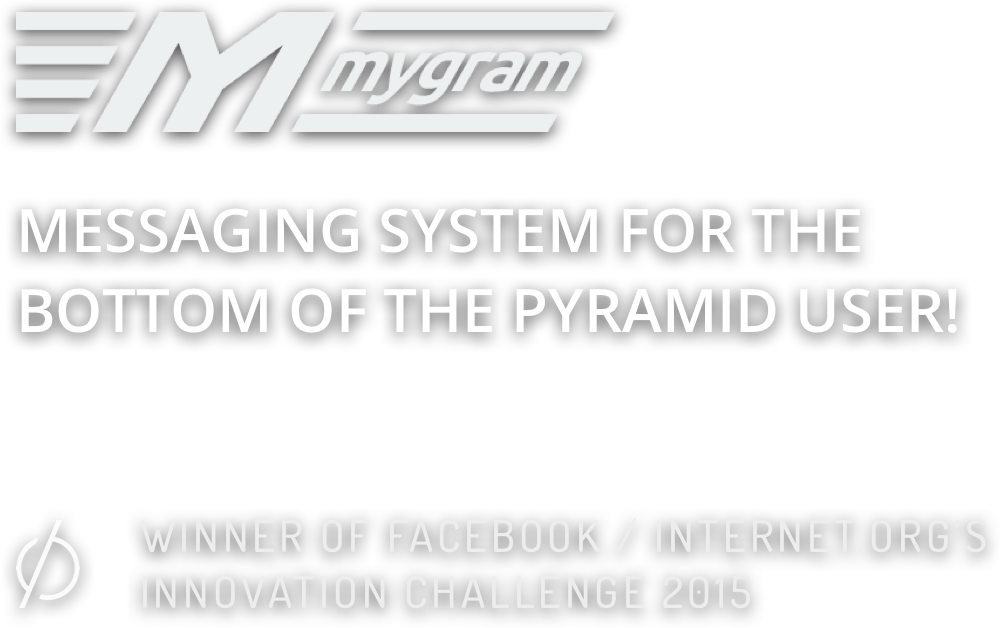
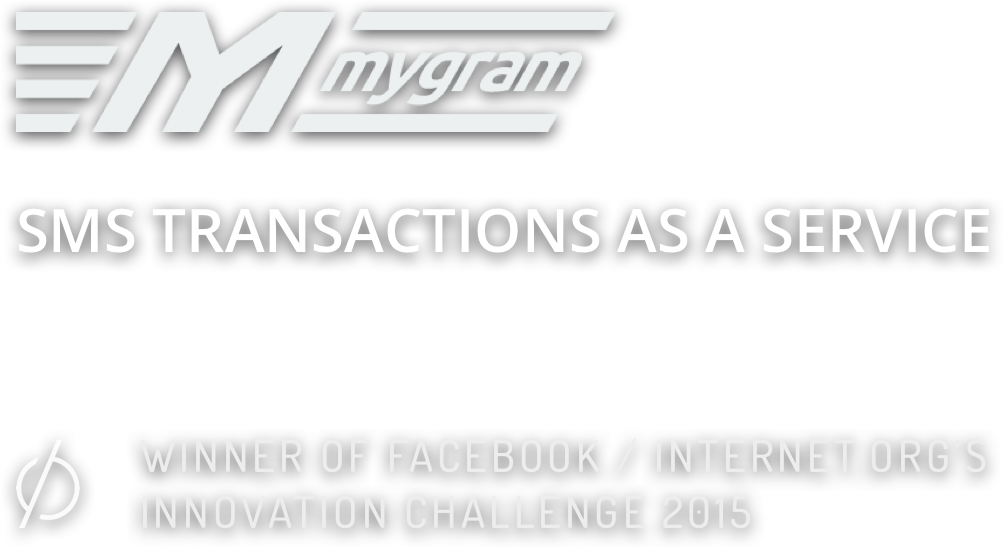
Small changes in text
* The tagline changed in the left panel.
* A paragraph’s heading changed.

diff --git a/index.html b/index.html
@@ -30,7 +30,7 @@
         </section>
 
         <section>
-          <h1>Turbo-charge your SMSes</h1>
+          <h1>Transactions over SMS</h1>
           <p>Mygram allows you to:
             <ul>
               <li><strong>Conduct transactions, not just send information:</strong> Mygram notifications are secure, authenticated links to active, rich content.</li>
